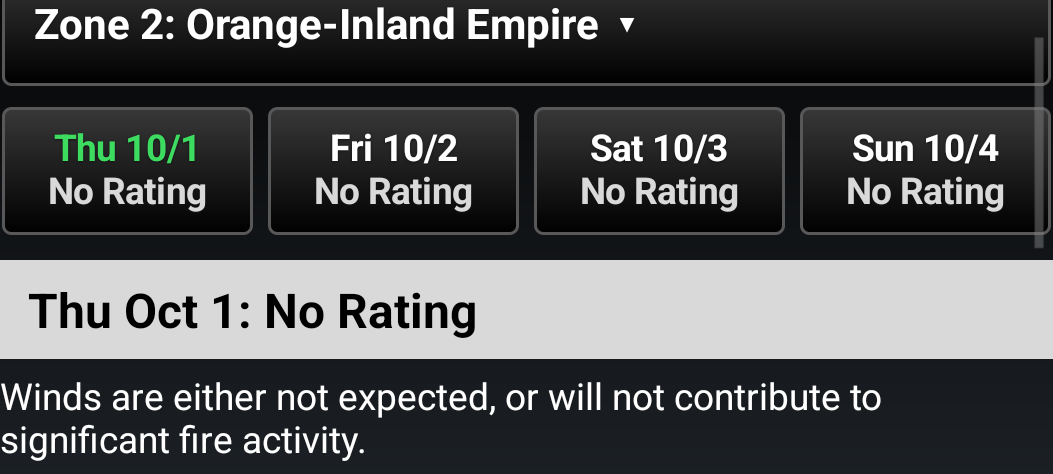
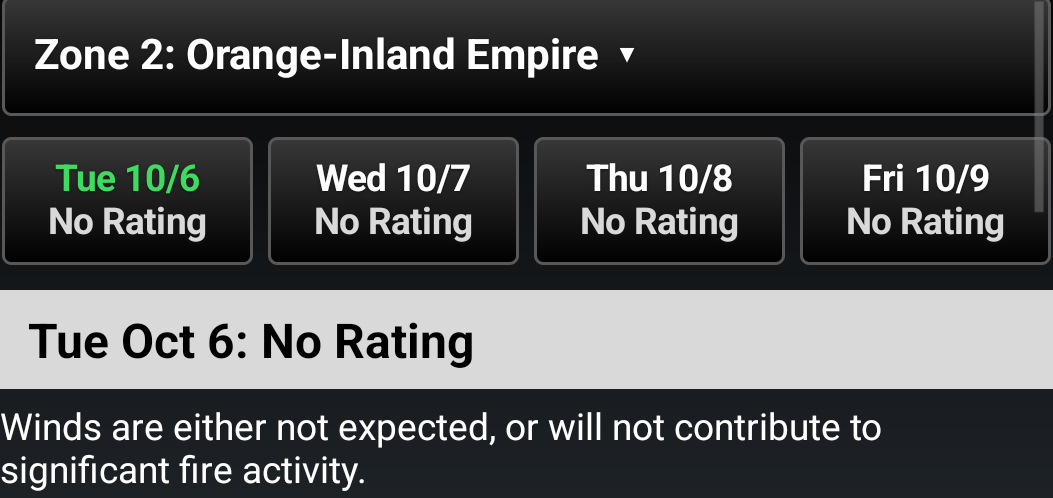
Atmosphere 0.11: version, download block, status; SAWTI page pictures
PLUGIN_VERSION 0.11 for 5.6, 5.7 and 5.8 (0.10 was the 5.8 picture build,
not published). README and guide download blocks re-stamped to v0.11;
status and capabilities name Fire Danger, utility stations and the rest.

SAWTI page pictures retaken from the signed 0.10 (top, gauges and actions,
All Zones, zone picker): the old set was dated Oct 1. The Fire Weather
Zones manual page puts its text beside its pictures; the new zones map is
taller and the text had spilled to a page of its own (53 pages).

Changed region(s): [[0.0, 0.0, 1.0, 0.5907], [0.0, 0.6203, 1.0, 1.0], [0.9725, 0.0, 1.0, 0.0886]]

diff --git a/plugins/Atmosphere/README.md b/plugins/Atmosphere/README.md
@@ -1,10 +1,10 @@
 ATAK Plugin — Atmosphere
 
-**Download Atmosphere 0.9** (pick the one matching your ATAK-CIV version, sideload, then load it in ATAK's Plugins manager):
+**Download Atmosphere 0.11** (pick the one matching your ATAK-CIV version, sideload, then load it in ATAK's Plugins manager):
 
-- **ATAK-CIV 5.6:** https://github.com/takwerx/atmosphere/releases/download/v0.9/ATAK-Plugin-Atmosphere-0.9--5.6.0-civ-release.apk
-- **ATAK-CIV 5.7:** https://github.com/takwerx/atmosphere/releases/download/v0.9/ATAK-Plugin-Atmosphere-0.9--5.7.0-civ-release.apk
-- **ATAK-CIV 5.8:** https://github.com/takwerx/atmosphere/releases/download/v0.9/ATAK-Plugin-Atmosphere-0.9--5.8.0-civ-release.apk
+- **ATAK-CIV 5.6:** https://github.com/takwerx/atmosphere/releases/download/v0.11/ATAK-Plugin-Atmosphere-0.11--5.6.0-civ-release.apk
+- **ATAK-CIV 5.7:** https://github.com/takwerx/atmosphere/releases/download/v0.11/ATAK-Plugin-Atmosphere-0.11--5.7.0-civ-release.apk
+- **ATAK-CIV 5.8:** https://github.com/takwerx/atmosphere/releases/download/v0.11/ATAK-Plugin-Atmosphere-0.11--5.8.0-civ-release.apk
 
 All releases: https://github.com/takwerx/atmosphere/releases
 
@@ -32,7 +32,9 @@ Capabilities:
   - Weather stations around you, colored against the Red Flag criteria of
     their own fire weather zone (the California, Great Basin, Southwest and
     Northwest annual operating plans are transcribed), with every reading and
-    the criteria behind a tap, favorites, and a list with counted filters.
+    the criteria behind a tap, favorites, and a list with counted filters. In
+    California, the utilities' stations too (SCE, SDG&E, PG&E, HPWREN, from
+    Cal OES), drawn apart and saying their wind reads higher than a RAWS.
   - River gauges colored by flood category, with stage, flow, flood stages and
     the observed and forecast hydrograph; buoys and coastal stations with
     their readings graded by sea state, the nearest tide and current
@@ -55,6 +57,11 @@ Capabilities:
     words and the recommended actions; NOAA's 15-minute lightning strike
     density; California's Public Safety Power Shutoffs from Cal OES (counties
     warned, power off, power back on), saying what it does not cover.
+  - Fire danger: every Predictive Service Area in the lower 48 shaded by its
+    Energy Release Component percentile, observed or forecast, from the
+    Forest Service's national service; tap an area's name for its ERC and
+    Burning Index and its GACC's own ERC chart, full screen to pinch and zoom.
+    Each fire weather zone gives the ERC of the area it is in.
   - Spot forecasts: every open request the National Weather Service has, with
     the office's forecast, newest or closest first and by type, and help
     preparing your own request.
@@ -72,15 +79,17 @@ Capabilities:
 _________________________________________________________________
 STATUS
 
-0.9, for ATAK-CIV 5.6, 5.7 and 5.8. New: SAWTI, the Santa Ana Wildfire Threat
-Index, on the map and as a page; lightning strike density; California's Public
-Safety Power Shutoffs. (0.8 was a picture build for the manual and was not
-published.) 0.7 brought fire weather zones and their planning forecast, spot
-forecasts newest or closest and by type, a tap that opens an item's page, and
-Title Case names. Developed on a
-Samsung Galaxy XCover Pro running ATAK-CIV 5.8.0.3 and checked on official
-ATAK-CIV 5.8 with the tak.gov-signed 0.8; compiled clean against the 5.6.0.23
-and 5.7.0.14 SDKs. The manual and the user guide carry screenshots from the
+0.11, for ATAK-CIV 5.6, 5.7 and 5.8. New: Fire Danger, the Energy Release
+Component by Predictive Service Area with each GACC's chart; California's
+utility weather stations; a Layers button in the top row; labels that stay
+level when the map turns; the smoke forecast at every zoom; fire weather zones
+outlined in purple; Atmosphere's drawn icons kept in ATAK's private storage
+rather than the shared card (takwerx/atmosphere#2). (0.10 was a picture build
+for the manual and was not published.) 0.9 brought SAWTI, lightning strike
+density and California's Public Safety Power Shutoffs. Developed on a Samsung
+Galaxy XCover Pro running ATAK-CIV 5.8.0.3 and checked on official ATAK-CIV
+5.8 with the tak.gov-signed 0.10; compiled clean against the 5.6.0.23 and
+5.7.0.14 SDKs. The manual and the user guide carry screenshots from the
 signed build.
 
 Parsers for every service are covered by unit tests that run off-device

diff --git a/plugins/Atmosphere/docs/USER_GUIDE.md b/plugins/Atmosphere/docs/USER_GUIDE.md
@@ -1,12 +1,12 @@
 # Atmosphere for ATAK — User Guide
 
-**Version 0.9 · takwerx**
+**Version 0.11 · takwerx**
 
-**Download Atmosphere 0.9** (pick the one matching your ATAK-CIV version, sideload, then load it in ATAK's Plugins manager):
+**Download Atmosphere 0.11** (pick the one matching your ATAK-CIV version, sideload, then load it in ATAK's Plugins manager):
 
-- **ATAK-CIV 5.6:** https://github.com/takwerx/atmosphere/releases/download/v0.9/ATAK-Plugin-Atmosphere-0.9--5.6.0-civ-release.apk
-- **ATAK-CIV 5.7:** https://github.com/takwerx/atmosphere/releases/download/v0.9/ATAK-Plugin-Atmosphere-0.9--5.7.0-civ-release.apk
-- **ATAK-CIV 5.8:** https://github.com/takwerx/atmosphere/releases/download/v0.9/ATAK-Plugin-Atmosphere-0.9--5.8.0-civ-release.apk
+- **ATAK-CIV 5.6:** https://github.com/takwerx/atmosphere/releases/download/v0.11/ATAK-Plugin-Atmosphere-0.11--5.6.0-civ-release.apk
+- **ATAK-CIV 5.7:** https://github.com/takwerx/atmosphere/releases/download/v0.11/ATAK-Plugin-Atmosphere-0.11--5.7.0-civ-release.apk
+- **ATAK-CIV 5.8:** https://github.com/takwerx/atmosphere/releases/download/v0.11/ATAK-Plugin-Atmosphere-0.11--5.8.0-civ-release.apk
 
 All releases: https://github.com/takwerx/atmosphere/releases
 
